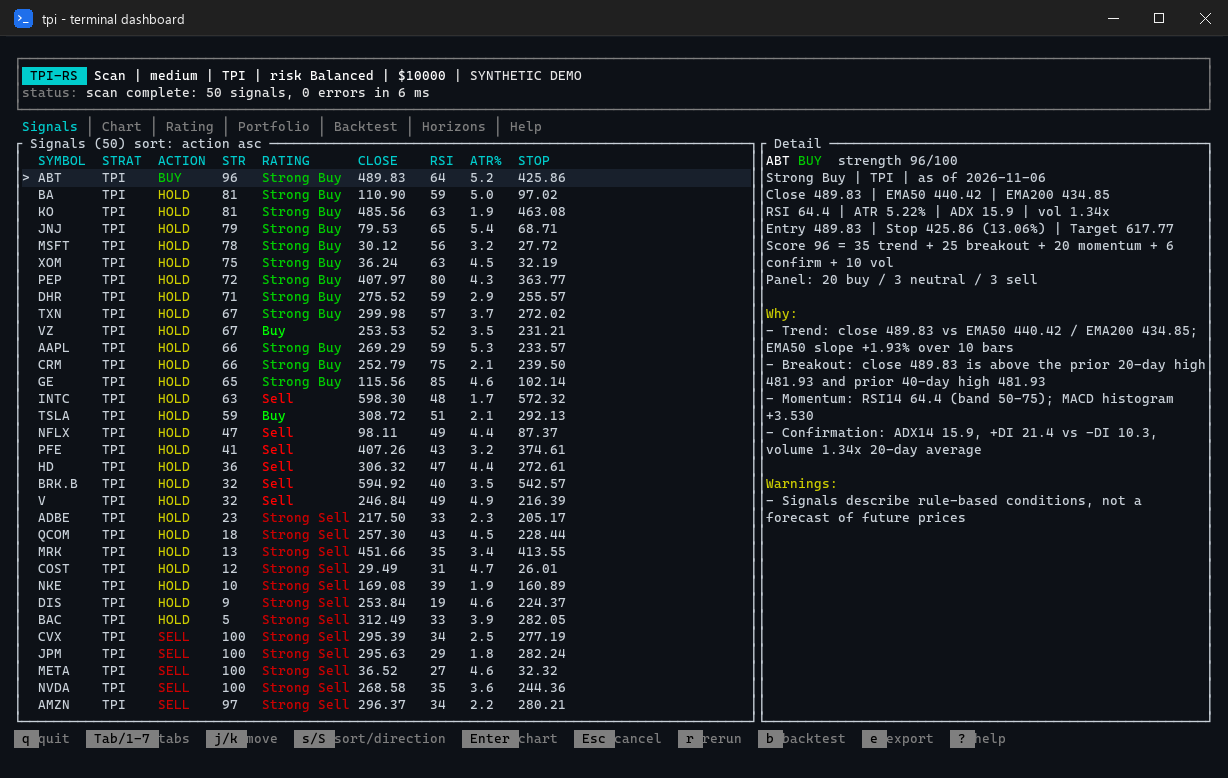
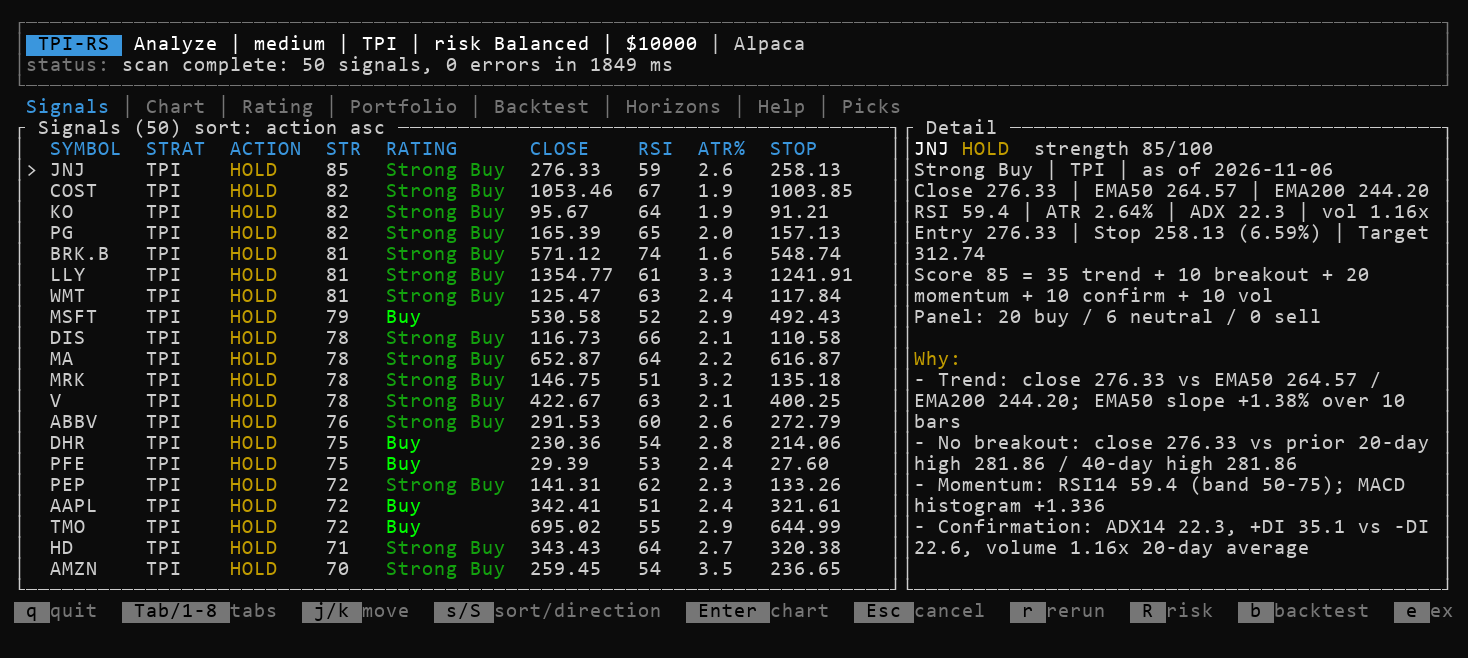
Regenerate the README screenshots from real data
tui.png is the dashboard from a real cached run of the 50-stock universe,
showing the current tab bar and footer. backtest.png is the current
short-horizon backtest output. Adds scripts/ansi2png.py, which turns a
captured ANSI session into a PNG so this can be repeated.

Changed region(s): [[0.0, 0.0, 0.9902, 0.9726]]

diff --git a/scripts/ansi2png.py b/scripts/ansi2png.py
@@ -1,0 +1,151 @@
+"""Render a captured ANSI terminal session to a PNG screenshot.
+
+Usage:
+    tpi tui ... > reports/tui_raw.txt
+    python scripts/ansi2png.py reports/tui_raw.txt docs/screenshots/tui.png --cols 120 --rows 30
+
+The last screen state in the capture is drawn, so a run killed by timeout still
+produces the frame it was showing. Needs pyte and Pillow.
+"""
+
+import argparse
+import sys
+
+import pyte
+from PIL import Image, ImageDraw, ImageFont
+
+# Windows Terminal "Campbell" palette, which is what the docs screenshots use.
+PALETTE = {
+    "black": "#0C0C0C",
+    "red": "#C50F1F",
+    "green": "#13A10E",
+    "yellow": "#C19C00",
+    "blue": "#0037DA",
+    "magenta": "#881798",
+    "cyan": "#3A96DD",
+    "white": "#CCCCCC",
+    "brightblack": "#767676",
+    "brightred": "#E74856",
+    "brightgreen": "#16C60C",
+    "brightyellow": "#F9F1A5",
+    "brightblue": "#3B78FF",
+    "brightmagenta": "#B4009E",
+    "brightcyan": "#61D6D6",
+    "brightwhite": "#F2F2F2",
+}
+DEFAULT_FG = PALETTE["white"]
+DEFAULT_BG = PALETTE["black"]
+
+
+ORDER = [
+    "black", "red", "green", "yellow", "blue", "magenta", "cyan", "white",
+    "brightblack", "brightred", "brightgreen", "brightyellow",
+    "brightblue", "brightmagenta", "brightcyan", "brightwhite",
+]
+# pyte resolves 256-colour SGR to hex, so map the first 16 back to Campbell.
+HEX_INDEX = {value: index for index, value in enumerate(pyte.graphics.FG_BG_256)}
+
+
+def color(value, fallback):
+    if isinstance(value, str):
+        name = value.replace(" ", "").lower()
+        if name in PALETTE:
+            return PALETTE[name]
+        if name == "default":
+            return fallback
+        index = HEX_INDEX.get(name)
+        if index is not None:
+            return PALETTE[ORDER[index]] if index < 16 else "#" + name
+    if isinstance(value, int):
+        if 0 <= value < 16:
+            return PALETTE[ORDER[value]]
+        if 16 <= value < 256:
+            return "#" + pyte.graphics.FG_BG_256[value]
+    return fallback
+
+
+def render(
+    raw: str,
+    cols: int,
+    rows: int,
+    font_path: str,
+    size: int,
+    pad: int,
+    screen_rows: int = 0,
+    screen_cols: int = 0,
+):
+    # A screen wider than the drawn area stops the capture from wrapping at --cols.
+    screen = pyte.Screen(screen_cols or cols, screen_rows or rows)
+    stream = pyte.Stream(screen)
+    stream.feed(raw)
+
+    font = ImageFont.truetype(font_path, size)
+    cell_w = int(round(max(font.getlength(c) for c in "ABCDEFGHIJKLMNOPQRSTUVWXYZabcdefghijklmnopqrstuvwxyz0123456789."))) + 1
+    ascent, descent = font.getmetrics()
+    cell_h = ascent + descent
+
+    image = Image.new("RGB", (cols * cell_w + pad * 2, rows * cell_h + pad * 2), DEFAULT_BG)
+    draw = ImageDraw.Draw(image)
+
+    for y in range(rows):
+        row = screen.buffer[y]
+        for x in range(cols):
+            char = row[x]
+            box = (
+                pad + x * cell_w,
+                pad + y * cell_h,
+                pad + (x + 1) * cell_w - 1,
+                pad + (y + 1) * cell_h - 1,
+            )
+            background = color(char.bg, DEFAULT_BG)
+            if background != DEFAULT_BG:
+                draw.rectangle(box, fill=background)
+            if not char.data.strip():
+                continue
+            draw.text(box[:2], char.data, font=font, fill=color(char.fg, DEFAULT_FG))
+    return image
+
+
+def main() -> int:
+    parser = argparse.ArgumentParser(description=__doc__)
+    parser.add_argument("input", help="captured ANSI text")
+    parser.add_argument("output", help="PNG to write")
+    parser.add_argument("--cols", type=int, default=120)
+    parser.add_argument("--rows", type=int, default=30, help="rows to draw")
+    parser.add_argument(
+        "--screen-rows",
+        type=int,
+        default=0,
+        help="terminal height of the capture, when longer than --rows (draws the top)",
+    )
+    parser.add_argument(
+        "--screen-cols",
+        type=int,
+        default=0,
+        help="terminal width of the capture, when wider than --cols (draws the left)",
+    )
+    parser.add_argument("--font", default=r"C:\Windows\Fonts\consola.ttf")
+    parser.add_argument("--size", type=int, default=20)
+    parser.add_argument("--pad", type=int, default=14)
+    args = parser.parse_args()
+
+    raw = open(args.input, encoding="utf-8", errors="replace").read()
+    # A bare LF moves down without returning to column 0 in a terminal.
+    raw = raw.replace("\r\n", "\n").replace("\n", "\r\n")
+    image = render(
+        raw,
+        args.cols,
+        args.rows,
+        args.font,
+        args.size,
+        args.pad,
+        args.screen_rows,
+        args.screen_cols,
+    )
+    image.save(args.output)
+    print(f"wrote {args.output} {image.size[0]}x{image.size[1]}")
+    return 0
+
+
+if __name__ == "__main__":
+    sys.exit(main())

diff --git a/src/tui/mod.rs b/src/tui/mod.rs
@@ -78,8 +78,8 @@ enum Tab {
     Portfolio,
     Backtest,
     Horizons,
-    Help,
     Picks,
+    Help,
 }
 
 impl Tab {
@@ -91,8 +91,8 @@ impl Tab {
             Self::Portfolio => 3,
             Self::Backtest => 4,
             Self::Horizons => 5,
-            Self::Help => 6,
-            Self::Picks => 7,
+            Self::Picks => 6,
+            Self::Help => 7,
         }
     }
 
@@ -103,8 +103,8 @@ impl Tab {
             3 => Self::Portfolio,
             4 => Self::Backtest,
             5 => Self::Horizons,
-            6 => Self::Help,
-            7 => Self::Picks,
+            6 => Self::Picks,
+            7 => Self::Help,
             _ => Self::Signals,
         }
     }
@@ -780,8 +780,8 @@ impl App {
             "Portfolio",
             "Backtest",
             "Horizons",
-            "Help",
             "Picks",
+            "Help",
         ])
         .select(self.tab.index())
         .style(Style::default().fg(Color::DarkGray))
@@ -1741,7 +1741,7 @@ impl App {
             Line::from("e               export CSV/JSON to the reports directory"),
             Line::from("q               quit"),
             Line::from(""),
-            Line::from("Tabs: Signals, Chart, Rating, Portfolio, Backtest, Horizons, Help, Picks."),
+            Line::from("Tabs: Signals, Chart, Rating, Portfolio, Backtest, Horizons, Picks, Help."),
             Line::from("Horizons shows short/medium/long actions with separate parameter sets."),
             Line::from(""),
             Line::from(
@@ -2132,11 +2132,20 @@ mod tests {
     #[test]
     fn picks_tab_is_reachable_and_renders_empty() {
         let mut app = app();
-        // Keys are 1-based: 1 Signals .. 7 Help (unchanged), 8 Picks.
-        app.handle_key(KeyEvent::from(KeyCode::Char('8')));
-        assert_eq!(app.tab.index(), Tab::Picks.index());
-        app.handle_key(KeyEvent::from(KeyCode::Char('7')));
-        assert_eq!(app.tab.index(), Tab::Help.index());
+        // Keys are 1-based: 1 Signals .. 7 Picks, 8 Help.
+        for (key, tab) in [
+            ('1', Tab::Signals),
+            ('2', Tab::Chart),
+            ('3', Tab::Rating),
+            ('4', Tab::Portfolio),
+            ('5', Tab::Backtest),
+            ('6', Tab::Horizons),
+            ('7', Tab::Picks),
+            ('8', Tab::Help),
+        ] {
+            app.handle_key(KeyEvent::from(KeyCode::Char(key)));
+            assert_eq!(app.tab.index(), tab.index(), "key {key}");
+        }
         app.handle_key(KeyEvent::from(KeyCode::Char('1')));
         assert_eq!(app.tab.index(), Tab::Signals.index());
         let indices: Vec<usize> = [
@@ -2146,8 +2155,8 @@ mod tests {
             Tab::Portfolio,
             Tab::Backtest,
             Tab::Horizons,
-            Tab::Help,
             Tab::Picks,
+            Tab::Help,
         ]
         .iter()
         .map(|t| t.index())

diff --git a/README.md b/README.md
@@ -14,7 +14,7 @@
   </a>
 </p>
 
-<p align="center"><sub>Captured on Windows 11. The dashboard (<code>tpi tui</code>): ranked signals, 26-vote rating, trade plan, chart, portfolio and backtests.</sub></p>
+<p align="center"><sub>Captured on Windows 11 with real Alpaca bars (<code>tpi tui</code>): ranked signals, 26-vote rating, trade plan, chart, portfolio, backtests and the Picks tab.</sub></p>
 
 TPI-RS is a Windows-native algorithmic trading system for US stocks. It scans for Donchian breakouts, confirms them with EMA trend, RSI, ATR and volume filters, adds a 26-vote technical rating, then backtests or trades the result through Alpaca. No Python, Docker, WSL, GPU or ML model.
 
